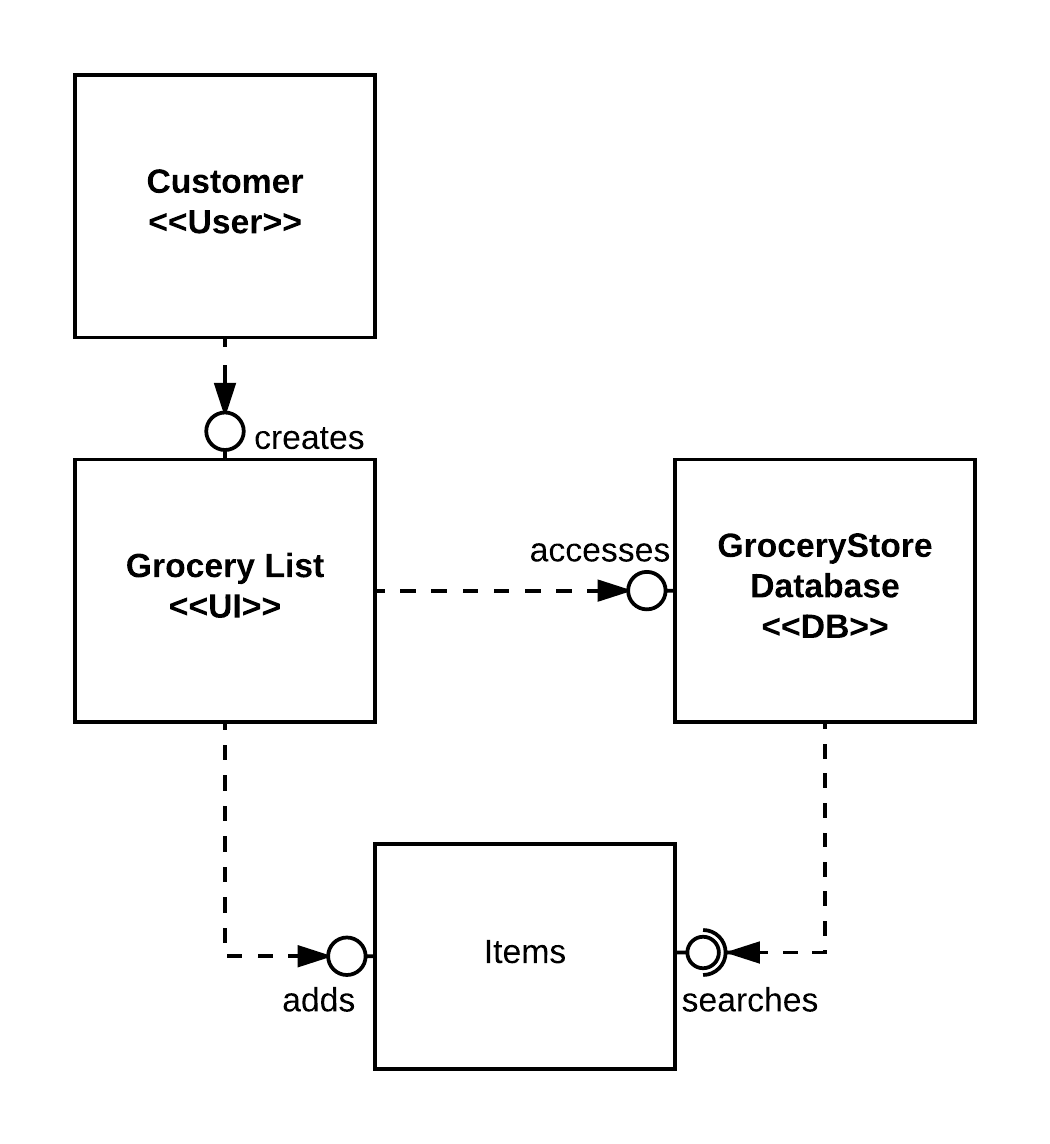
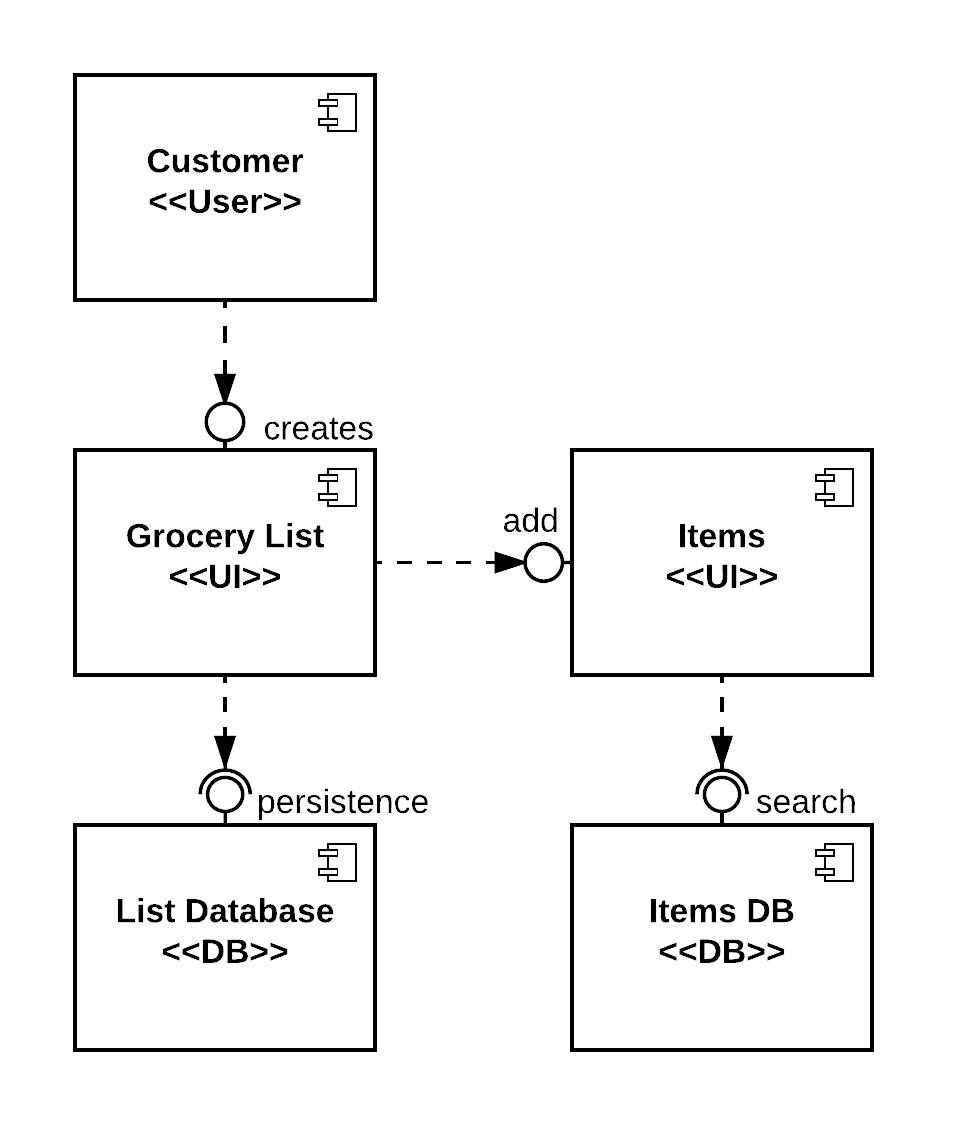
Component Diagram and description updated to v1.5

diff --git a/GroupProject/Docs/DesignDocument.md b/GroupProject/Docs/DesignDocument.md
@@ -8,10 +8,10 @@
 
 **Author(s)**: **Team 6**
 
-* *Nazib Mondal*
-* *Ricardo Delahoz*
-* *Bernice Tran*
-* *Jooyong "Daniel" Park*
+- *Nazib Mondal*
+- *Ricardo Delahoz*
+- *Bernice Tran*
+- *Jooyong "Daniel" Park*
 
 ## 1 Design Considerations
 
@@ -48,20 +48,22 @@ assuming that these dependencies are resolvable and should not hinder the implem
 
 ## 2 Architectural Design
 
-### 2.1 Component Diagram v1.2
+### 2.1 Component Diagram v1.5
 ![alt text][components]
 
-**The 4 main components that will be working together in this design are:**
+**The 5 main components that will be working together in this design are:**
 
  1. The User component
  2. The Grocery List component
- 3. The Database component
- 4. The Items component.
+ 3. The List Database component
+ 4. The Items component
+ 5. The Items Database component
 
-* During actual usage of the app, the main interactions are between the Customer and the Grocery List UI (whereby the Customer can create lists of their choice), and the GroceryDB searching for the existence of an Item that is being added in the GroceryList.
-* The adding of an item is also done by the Customer through the use of the GroceryList UI, however the GroceryList always references the database behind the scenes with every request to search for an add-able item.
-* The user can also add items to the DB in the case an item does not existing.
-* Each individual list will have access to a local centralized GroceryDB, but will have their own tables to handle Item quantities
+* During actual usage of the app, the main interactions are between the Customer and the Grocery List UI (whereby the Customer can create lists of their choice from the main menu), and the Items Database being searched for addable items to be added to the grocery list.
+* The adding of an item is also done by the Customer through the use of the Grocery List UI, however the Grocery List always references the List Database behind the scenes for data persistence, and the Items Database with every request to search for an add-able item.
+* The user can also add Items to the Items Database in the case an Item does not exist.
+* Each individual Grocery List be stored on the List Database, and will have access to a local centralized Items Database, but will have their own tables to handle Item quantities and persistence.
+* The primary use for the List Database component is to help with data persistence; the Items Database component falls under a similar category, but is to keep track of all available Items that can be added to a list. This includes any newly added Items that were not initially available.
 
 ### 2.2 Deployment Diagram v1.2
 
